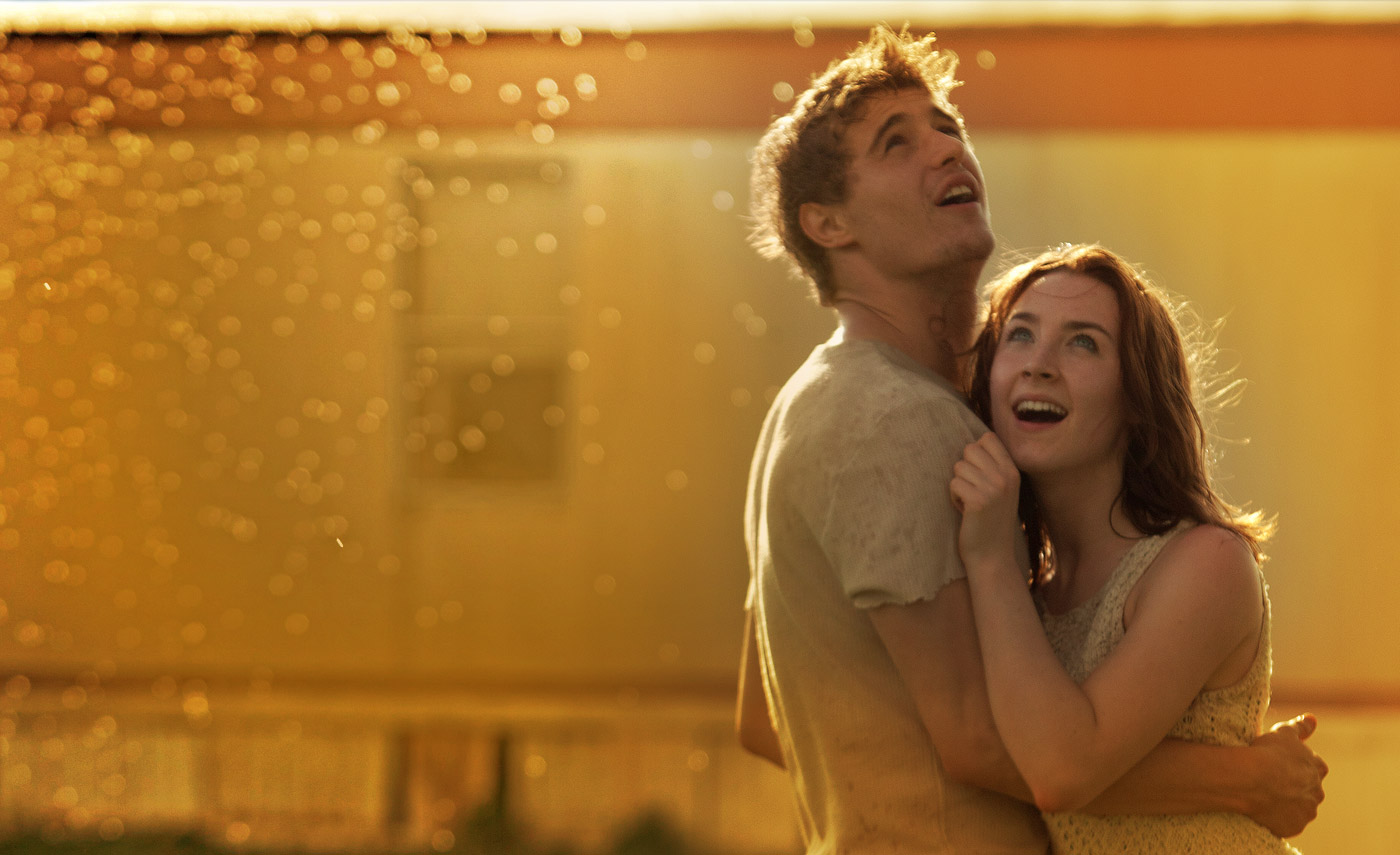
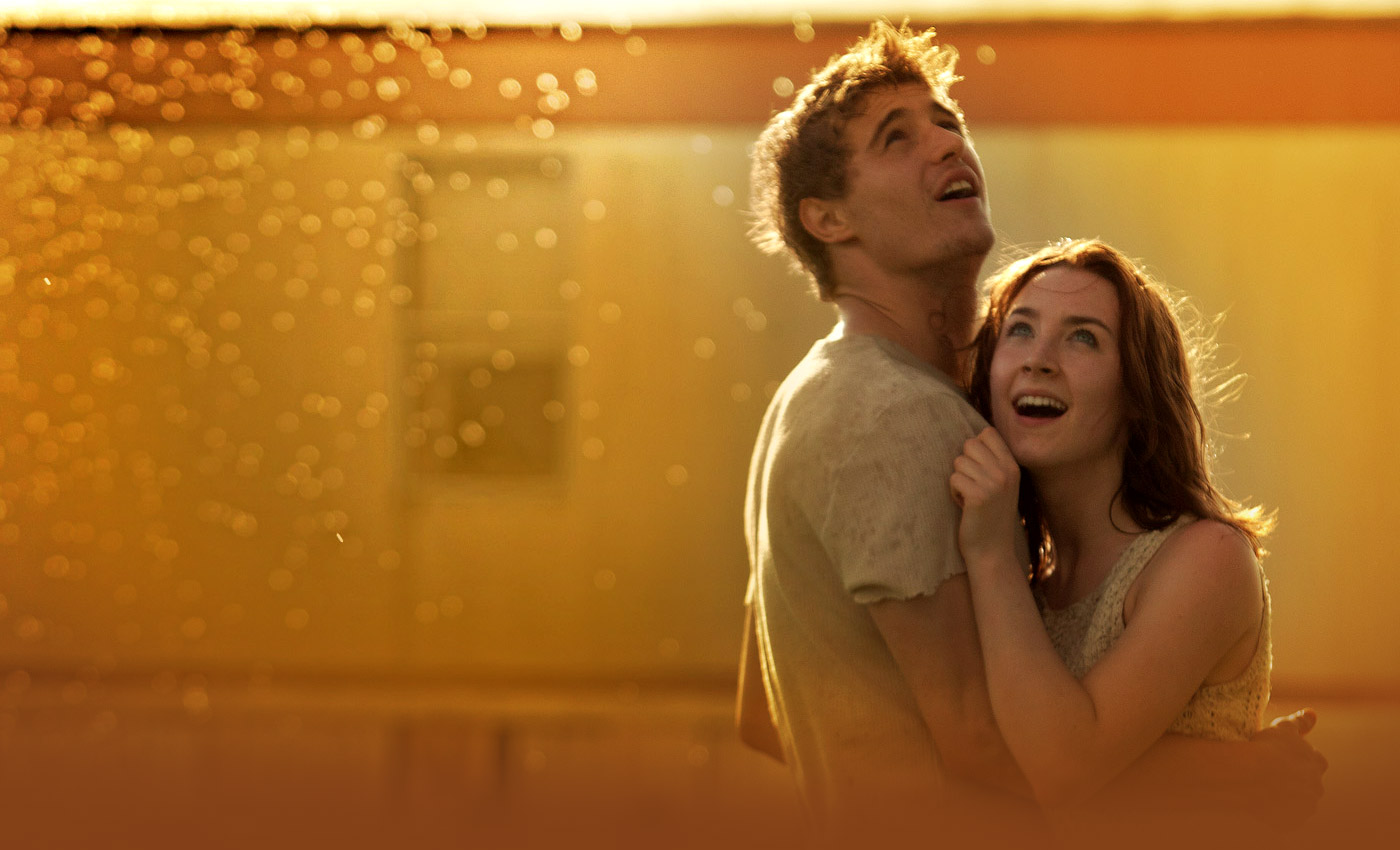
upd

diff --git a/css/main.css b/css/main.css
@@ -36,7 +36,11 @@ a:hover {color: #ffdd98; text-shadow: 0px -1px 8px #8be8ff;}
 
 
 body#index .menu {background-color: #1c323e;}
-body#about .menu {background-color: #673b03;}
+body#about .menu {background-color: #502000;}
+
+body#index .footer {background-color: #000000; border-top: 1px solid #1b2021;}
+body#about .footer {background-color: #301300; border-top: 1px solid #612700;}
+
 
 .menu {position: fixed; top: 0; left: 0; width: 100%; min-width: 970px; height: 34px; margin: 0 auto; text-align: center; z-index: 6; color: #ffffff;}
 .menu a {position: relative; top: 0; width: 70px; display: inline-block; height: 14px; line-height: 14px; color: #ffffff !important; padding: 10px 10px 7px 10px; margin: 0 2px 0 2px; font-size: 14px; font-weight: normal; text-decoration: none; border-bottom: 3px solid transparent;}
@@ -44,8 +48,8 @@ body#about .menu {background-color: #673b03;}
 .menu .active {border-bottom: 3px solid #ffa227;}
 .menu a:hover {text-shadow: 0 -1px 8px #8be8ff; border-bottom: 3px solid #ffa227;}
 .menu a.active:hover {cursor: default; text-shadow: none;}
-.menu .off {cursor: default; color: #8e9da3 !important;}
-.menu .off:hover {color: #8e9da3; border-bottom: 3px solid transparent !important; text-shadow: none;}
+.menu .off {cursor: default; color: #9c9e9f !important;}
+.menu .off:hover {color: #9c9e9f; border-bottom: 3px solid transparent !important; text-shadow: none;}
 
 
 
@@ -63,10 +67,10 @@ body#about .menu {background-color: #673b03;}
 
 .index_age {position: fixed; bottom: 70px; left: 40px; z-index: 6; width: 80px; height: 50px; background-image:url('/images/age_dark.png');}
 
-.index_footer {position: fixed; bottom: 0; left: 0; width: 100%; min-width: 970px; height: 28px; margin: 0 auto; background-color: #000000; border-top: 1px solid #1b2021; text-align: center; z-index: 5;}
-.copy {padding: 0 10px 20px 10px; font-size: 12px; color: #525a5d; text-align: center; line-height: 27px; text-transform: uppercase;}
-.copy a, .copy a:visited {color: #838b8e; text-decoration: none;}
-.copy a:hover {color: #889ea6; text-decoration: none; text-shadow: 0px -1px 8px #baf1ff;}
+.footer {position: fixed; bottom: 0; left: 0; width: 100%; min-width: 970px; height: 28px; margin: 0 auto; text-align: center; z-index: 5;}
+.copy {padding: 0 10px 20px 10px; font-size: 12px; color: #5c5e5f; text-align: center; line-height: 27px; text-transform: uppercase;}
+.copy a, .copy a:visited {color: #8d9091; text-decoration: none;}
+.copy a:hover {color: #9da7ab; text-decoration: none; text-shadow: 0px -1px 8px #baf1ff;}
 
 #counters {position: fixed; bottom: -156px; right: 10px; z-index: 1005; width: 140px; height: 180px; text-align: right; background-image:url('/images/counters.png'); background-position: right top; background-repeat: no-repeat;}
 .counters_list {padding-top: 30px; opacity: 0.40; -moz-opacity: 0.40; -khtml-opacity: 0.40; filter: alpha(opacity=40);}

diff --git a/about.php b/about.php
@@ -15,14 +15,14 @@
 
 </head><body id="about">
 
-<noscript><style>.dim {display: none;} #counters:hover {bottom: 0;}</style><div style="position: absolute; bottom: 80px; left: 50%; width: 360px; z-index: 9999; margin-left: -180px; font-size: 14px; color: #849091; line-height: 20px; text-align: center; border: 1px solid #849091;">В вашем браузере отключен JavaScript</div></noscript>
+<noscript><style>.dim {display: none;} #counters:hover {bottom: 0;}</style><div style="position: absolute; bottom: 80px; left: 50%; width: 360px; z-index: 9999; margin-left: -180px; font-size: 14px; color: #849091; line-height: 20px; text-align: center; border: 1px solid #849091; background-color: #000000;">В вашем браузере отключен JavaScript</div></noscript>
 <div class="dim">&nbsp;</div>
 
 
 
 <style type="text/css">
-body#about {background-color: #512c00;}
-body {background: url('/images/bg_about.jpg') center center no-repeat; background-size: cover;}
+body#about {background-color: #834017;}
+body {background: url('/images/bg_about.jpg') center center no-repeat; background-size: cover; background-attachment: fixed;}
 </style>
 
 <div class="menu">
@@ -43,7 +43,7 @@ body {background: url('/images/bg_about.jpg') center center no-repeat; backgroun
 
 <div class="index_age noselect">&nbsp;</div>
 
-<div class="index_footer"><div class="copy">&copy; 2013 &laquo;<a class="fadeout" href="http://www.westvideo.ru/">Вест Видео</a>&raquo;. Создание сайта: <a class="fadeout" href="http://www.kg-design.ru/">КГ-Дизайн</a></div></div>
+<div class="footer"><div class="copy">&copy; 2013 &laquo;<a class="fadeout" href="http://www.westvideo.ru/">Вест Видео</a>&raquo;. Создание сайта: <a class="fadeout" href="http://www.kg-design.ru/">КГ-Дизайн</a></div></div>
 
 <div id="counters"><div class="counters_list"><p><?php //include ("counters_include.php"); ?></p></div></div>
 
@@ -67,13 +67,12 @@ body {background: url('/images/bg_about.jpg') center center no-repeat; backgroun
 
 
 <!-- Index: background-size fix for IE8 -->
-<script src="/js/jquery.backgroundSize.js" type="text/javascript"></script>
+<!--[if lt IE 9]><script src="/js/jquery.backgroundSize.js" type="text/javascript"></script><![endif]-->
 <script type="text/javascript">
 $(function() {
 $("body").css({backgroundSize: "cover"});
 });
 </script>
-<!--[if lte IE 8]><style type="text/css">.logo_big_glow {display: none !important;}</style><![endif]-->
 
 <!-- Fancybox -->
 <script type="text/javascript" src="/js/jquery.fancybox.js?v=2.1.1"></script>

diff --git a/index.php b/index.php
@@ -11,7 +11,7 @@ $glowingLogo.animate({opacity:0},4000).delay(500).animate({opacity:1},4000, cycl
 
 </head><body id="index">
 
-<noscript><style>.dim {display: none;} #counters:hover {bottom: 0;}</style><div style="position: absolute; bottom: 80px; left: 50%; width: 360px; z-index: 9999; margin-left: -180px; font-size: 14px; color: #849091; line-height: 20px; text-align: center; border: 1px solid #849091;">В вашем браузере отключен JavaScript</div></noscript>
+<noscript><style>.dim {display: none;} #counters:hover {bottom: 0;}</style><div style="position: absolute; bottom: 80px; left: 50%; width: 360px; z-index: 9999; margin-left: -180px; font-size: 14px; color: #849091; line-height: 20px; text-align: center; border: 1px solid #849091; background-color: #000000;">В вашем браузере отключен JavaScript</div></noscript>
 <div class="dim">&nbsp;</div>
 
 
@@ -34,13 +34,13 @@ $glowingLogo.animate({opacity:0},4000).delay(500).animate({opacity:1},4000, cycl
 
 <div class="index_age noselect">&nbsp;</div>
 
-<div class="index_footer"><div class="copy">&copy; 2013 &laquo;<a class="fadeout" href="http://www.westvideo.ru/">Вест Видео</a>&raquo; &nbsp;&nbsp; Создание сайта: <a class="fadeout" href="http://www.kg-design.ru/">КГ-Дизайн</a></div></div>
+<div class="footer"><div class="copy">&copy; 2013 &laquo;<a class="fadeout" href="http://www.westvideo.ru/">Вест Видео</a>&raquo; &nbsp;&nbsp; Создание сайта: <a class="fadeout" href="http://www.kg-design.ru/">КГ-Дизайн</a></div></div>
 
 <div id="counters"><div class="counters_list"><p><?php //include ("counters_include.php"); ?></p></div></div>
 
 
 <!-- Index: background-size fix for IE8 -->
-<script src="/js/jquery.backgroundSize.js" type="text/javascript"></script>
+<!--[if lt IE 9]><script src="/js/jquery.backgroundSize.js" type="text/javascript"></script><![endif]-->
 <script type="text/javascript">
 $(function() {
 $(".index_wrap").css({backgroundSize: "contain"});
@@ -50,6 +50,6 @@ $(".index_text").css({backgroundSize: "contain"});
 $(".index_date").css({backgroundSize: "contain"});
 });
 </script>
-<!--[if lte IE 8]><style type="text/css">.logo_big_glow {display: none !important;}</style><![endif]-->
+<!--[if lt IE 9]><style type="text/css">.logo_big_glow {display: none !important;}</style><![endif]-->
 
 </body></html>
